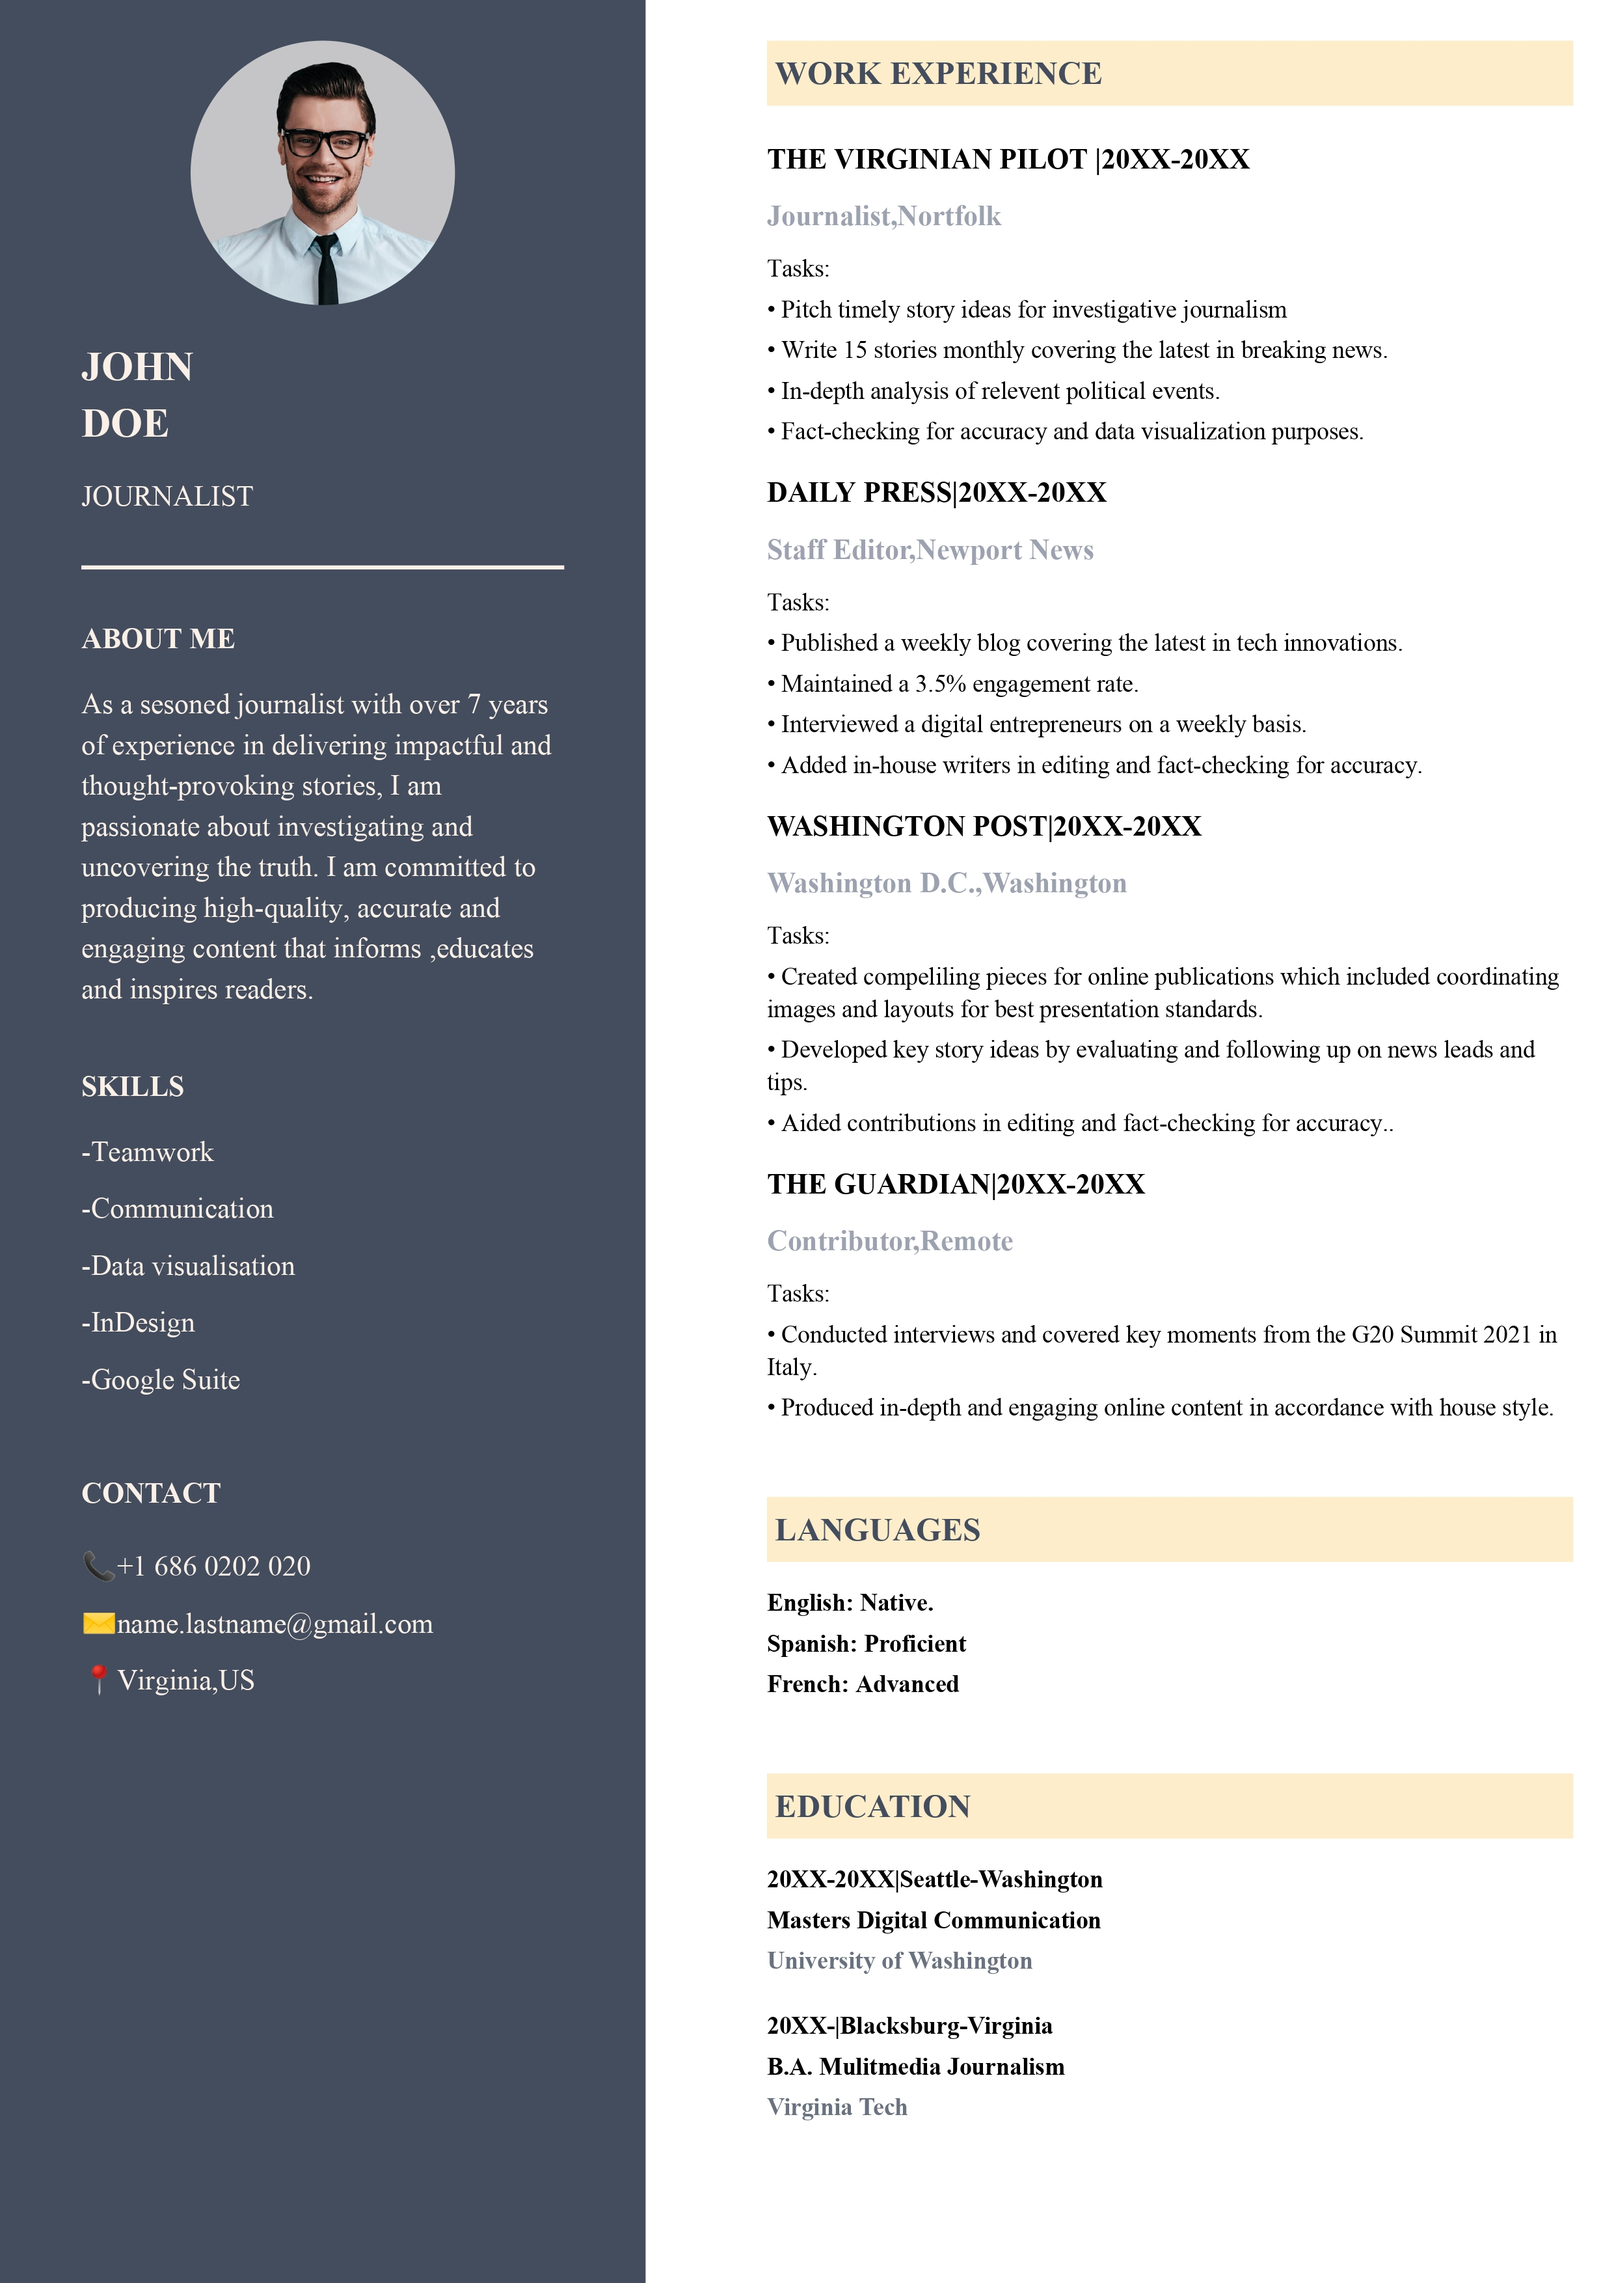
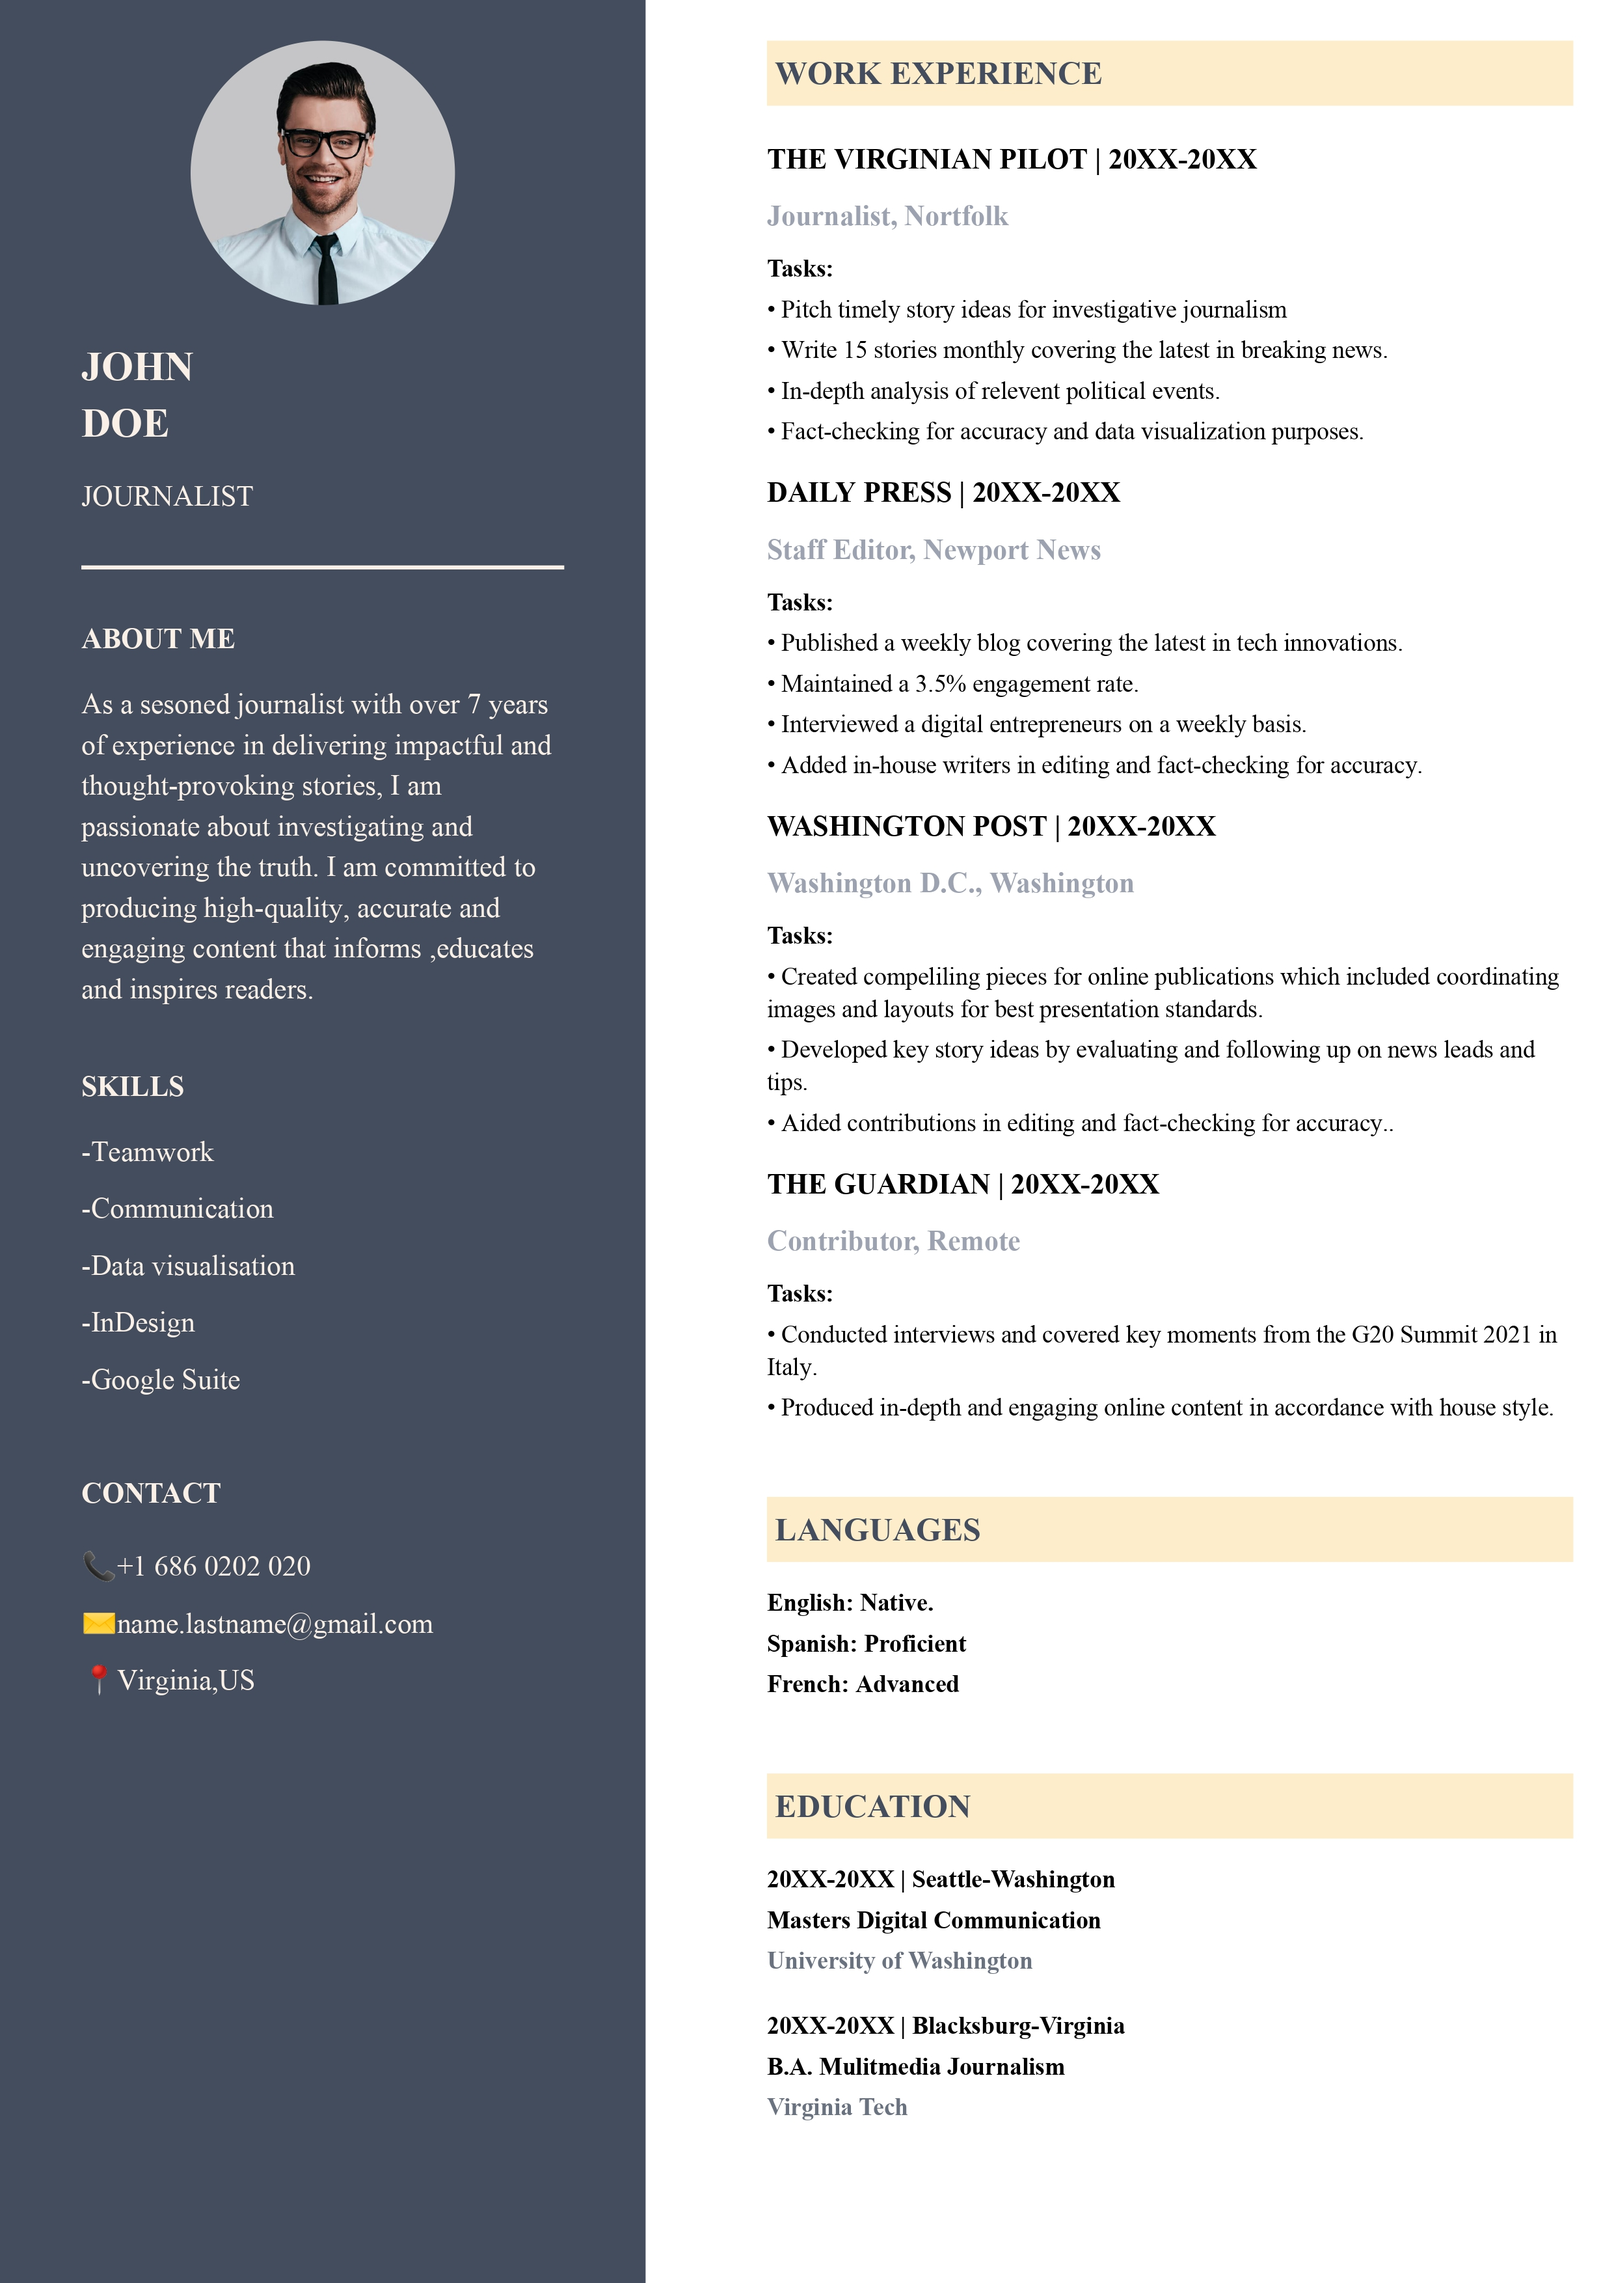
update newCV

diff --git a/templates/newCV/src/main.tsx b/templates/newCV/src/main.tsx
@@ -36,46 +36,46 @@ import { CSS } from "@onedoc/react-print";
               </div>
               <div className="w-[55%] bg-white min-h-screen py-5 px-5 ml-auto">
                   <div className="p-1 bg-[#feeeca] text-[#444d5e] text-base font-bold mb-4">WORK EXPERIENCE</div>
-                  <p className="text-sm mb-2 font-bold text-black">THE VIRGINIAN PILOT |20XX-20XX</p>
-                  <p className="text-sm mb-2 text-gray-400 font-bold">Journalist,Nortfolk</p>
-                  <p className=" text-xs mb-1 text-black  font-medium">Tasks:</p>
+                  <p className="text-sm mb-2 font-bold text-black">THE VIRGINIAN PILOT | 20XX-20XX</p>
+                  <p className="text-sm mb-2 text-gray-400 font-bold">Journalist, Nortfolk</p>
+                  <p className=" text-xs mb-1 text-black font-semibold">Tasks:</p>
                   <p className=" text-xs mb-1 text-black  font-medium">• Pitch timely story ideas for investigative journalism</p>
                   <p className=" text-xs mb-1 text-black  font-medium">• Write 15 stories monthly covering the latest in breaking news.</p>
                   <p className=" text-xs mb-1 text-black  font-medium">• In-depth analysis of relevent political events.</p>
                   <p className=" text-xs  text-black  font-medium mb-3">• Fact-checking for accuracy and data visualization purposes.</p>
                   
-                  <p className="text-sm mb-2 font-bold text-black">DAILY PRESS|20XX-20XX</p>
-                  <p className="text-sm mb-2 text-gray-400 font-bold">Staff Editor,Newport News</p>
-                  <p className=" text-xs mb-1 text-black  font-medium">Tasks:</p>
+                  <p className="text-sm mb-2 font-bold text-black">DAILY PRESS | 20XX-20XX</p>
+                  <p className="text-sm mb-2 text-gray-400 font-bold">Staff Editor, Newport News</p>
+                  <p className=" text-xs mb-1 text-black font-semibold">Tasks:</p>
                   <p className=" text-xs mb-1 text-black  font-medium">• Published a weekly blog covering the latest in tech innovations.</p>
                   <p className=" text-xs mb-1 text-black  font-medium">• Maintained a 3.5% engagement rate.</p>
                   <p className=" text-xs mb-1 text-black  font-medium">• Interviewed a digital entrepreneurs on a weekly basis.</p>
                   <p className=" text-xs  text-black  font-medium mb-3">• Added in-house writers in editing and fact-checking for accuracy.</p>
                   
-                  <p className="text-sm mb-2 font-bold text-black">WASHINGTON POST|20XX-20XX</p>
-                  <p className="text-sm mb-2 text-gray-400 font-bold">Washington D.C.,Washington</p>
-                  <p className=" text-xs mb-1 text-black  font-medium">Tasks:</p>
+                  <p className="text-sm mb-2 font-bold text-black">WASHINGTON POST | 20XX-20XX</p>
+                  <p className="text-sm mb-2 text-gray-400 font-bold">Washington D.C., Washington</p>
+                  <p className=" text-xs mb-1 text-black font-semibold">Tasks:</p>
                   <p className=" text-xs mb-1 text-black  font-medium">• Created compeliling pieces for online publications which included coordinating images and layouts for best presentation standards.</p>
                   <p className=" text-xs mb-1 text-black  font-medium">• Developed key story ideas by evaluating and following up on news leads and tips.</p>
                   <p className=" text-xs  text-black  font-medium mb-3">• Aided contributions in editing and fact-checking for accuracy..</p>
 
-                  <p className="text-sm mb-2 font-bold text-black">THE GUARDIAN|20XX-20XX</p>
-                  <p className="text-sm mb-2 text-gray-400 font-bold">Contributor,Remote</p>
-                  <p className=" text-xs mb-1 text-black  font-medium">Tasks:</p>
-                  <p className=" text-xs mb-1 text-black  font-medium">• Conducted interviews and covered key moments from the G20 Summit 2021 in Italy.</p>
+                  <p className="text-sm mb-2 font-bold text-black">THE GUARDIAN | 20XX-20XX</p>
+                  <p className="text-sm mb-2 text-gray-400 font-bold">Contributor, Remote</p>
+                  <p className=" text-xs mb-1 text-black font-semibold">Tasks:</p>
+                  <p className=" text-xs mb-1 text-black font-medium">• Conducted interviews and covered key moments from the G20 Summit 2021 in Italy.</p>
                   <p className=" text-xs  text-black  font-medium mb-3">• Produced in-depth and engaging online content in accordance with house style.</p>
                   <br/>
                   <div className="p-1 bg-[#feeeca] text-[#444d5e] text-base font-bold mb-3">LANGUAGES</div>
-                  <p className=" text-xs mb-1 text-black  font-semibold">English: Native.</p>
-                  <p className=" text-xs mb-1 text-black  font-semibold">Spanish: Proficient</p>
+                  <p className=" text-xs mb-1 text-black font-semibold">English: Native.</p>
+                  <p className=" text-xs mb-1 text-black font-semibold">Spanish: Proficient</p>
                   <p className=" text-xs  text-black  font-semibold mb-3">French: Advanced</p>
                   <br/>
                   <div className="p-1 bg-[#feeeca] text-[#444d5e] text-base font-bold mb-3">EDUCATION</div>
-                  <p className=" text-xs mb-1 text-black  font-semibold">20XX-20XX|Seattle-Washington</p>
+                  <p className=" text-xs mb-1 text-black  font-semibold">20XX-20XX | Seattle-Washington</p>
                   <p className=" text-xs mb-1 text-black  font-bold">Masters Digital Communication</p>
                   <p className=" text-xs text-gray-500  font-semibold mb-4">University of Washington</p>
 
-                  <p className=" text-xs mb-1 text-black  font-semibold">20XX-|Blacksburg-Virginia</p>
+                  <p className=" text-xs mb-1 text-black  font-semibold">20XX-20XX | Blacksburg-Virginia</p>
                   <p className=" text-xs mb-1 text-black  font-bold">B.A. Mulitmedia Journalism</p>
                   <p className=" text-xs text-gray-500  font-semibold mb-2">Virginia Tech</p>
 
